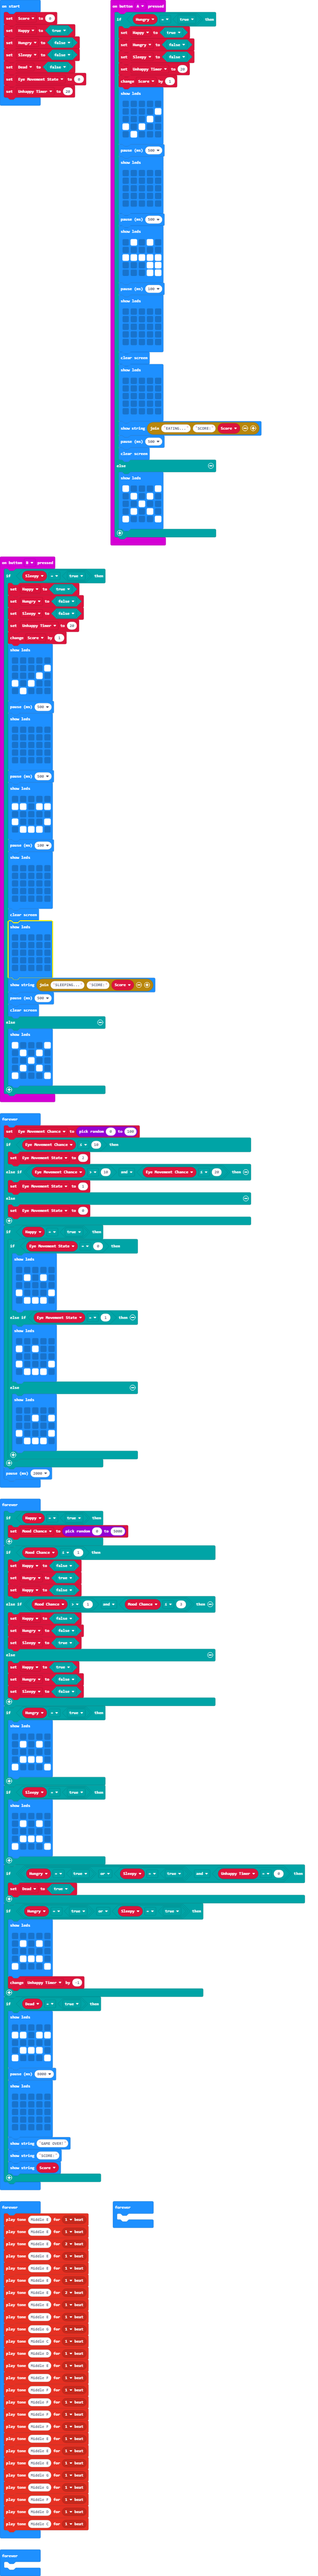
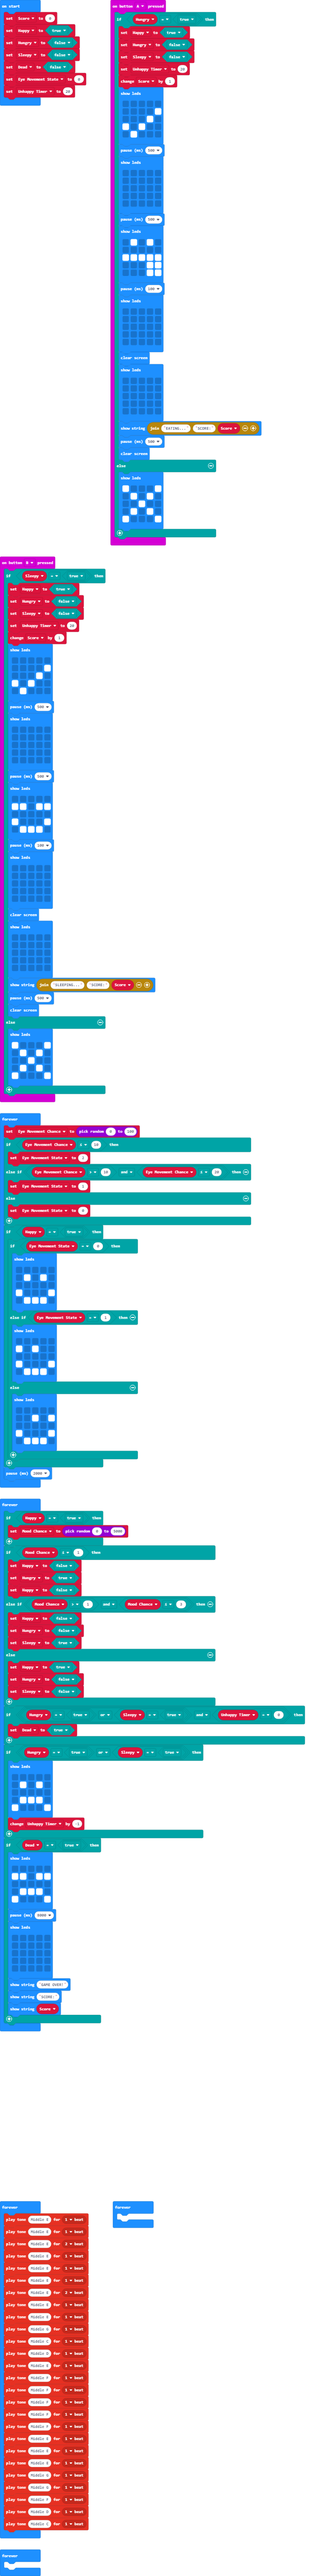
Update main.blocks, main.ts

Changed region(s): [[0.0, 0.6534, 0.9682, 0.8712]]

diff --git a/main.ts b/main.ts
@@ -185,24 +185,6 @@ basic.forever(function () {
         Hungry = false
         Sleepy = false
     }
-    if (Hungry == true) {
-        basic.showLeds(`
-            . . . . .
-            . # . # .
-            . . . . .
-            . # # # .
-            # . . . #
-            `)
-    }
-    if (Sleepy == true) {
-        basic.showLeds(`
-            . . . . .
-            . # . # .
-            . . . . .
-            . # # # .
-            # . . . #
-            `)
-    }
     if ((Hungry == true || Sleepy == true) && Unhappy_Timer == 0) {
         Dead = true
     }
